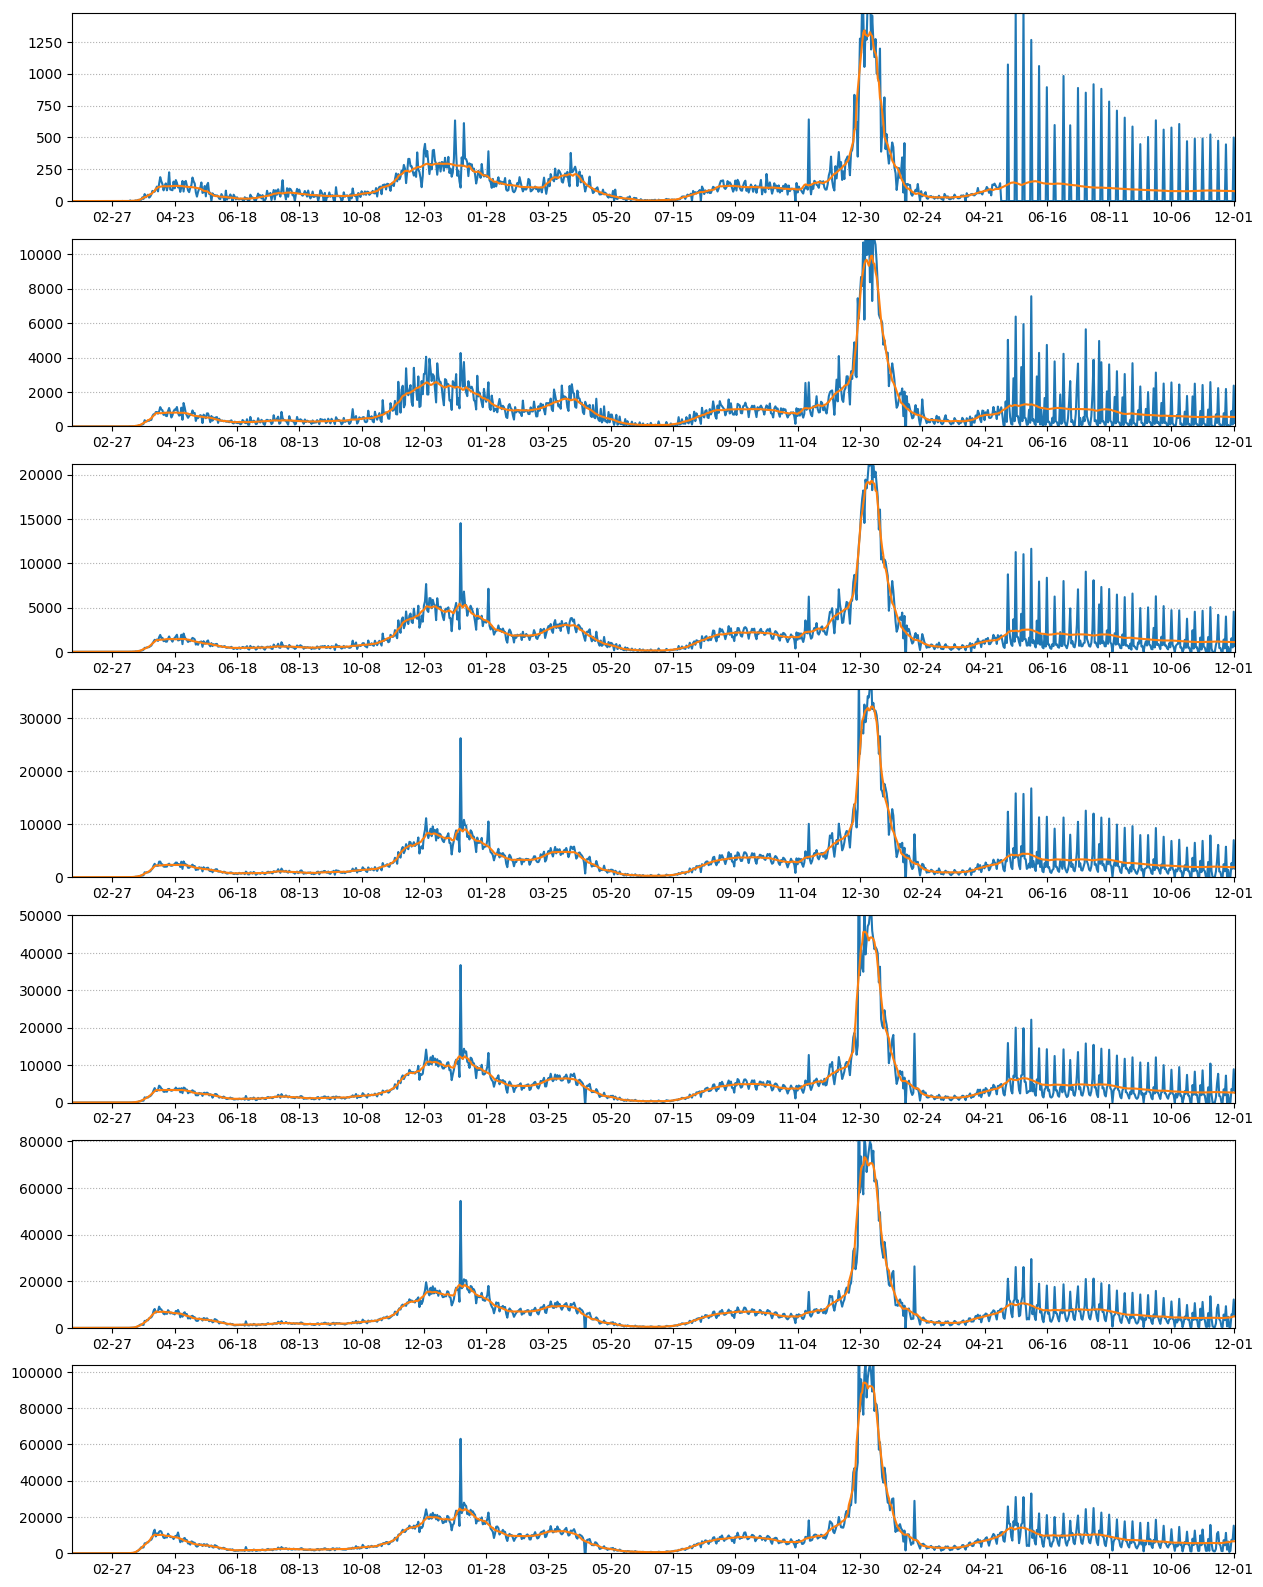
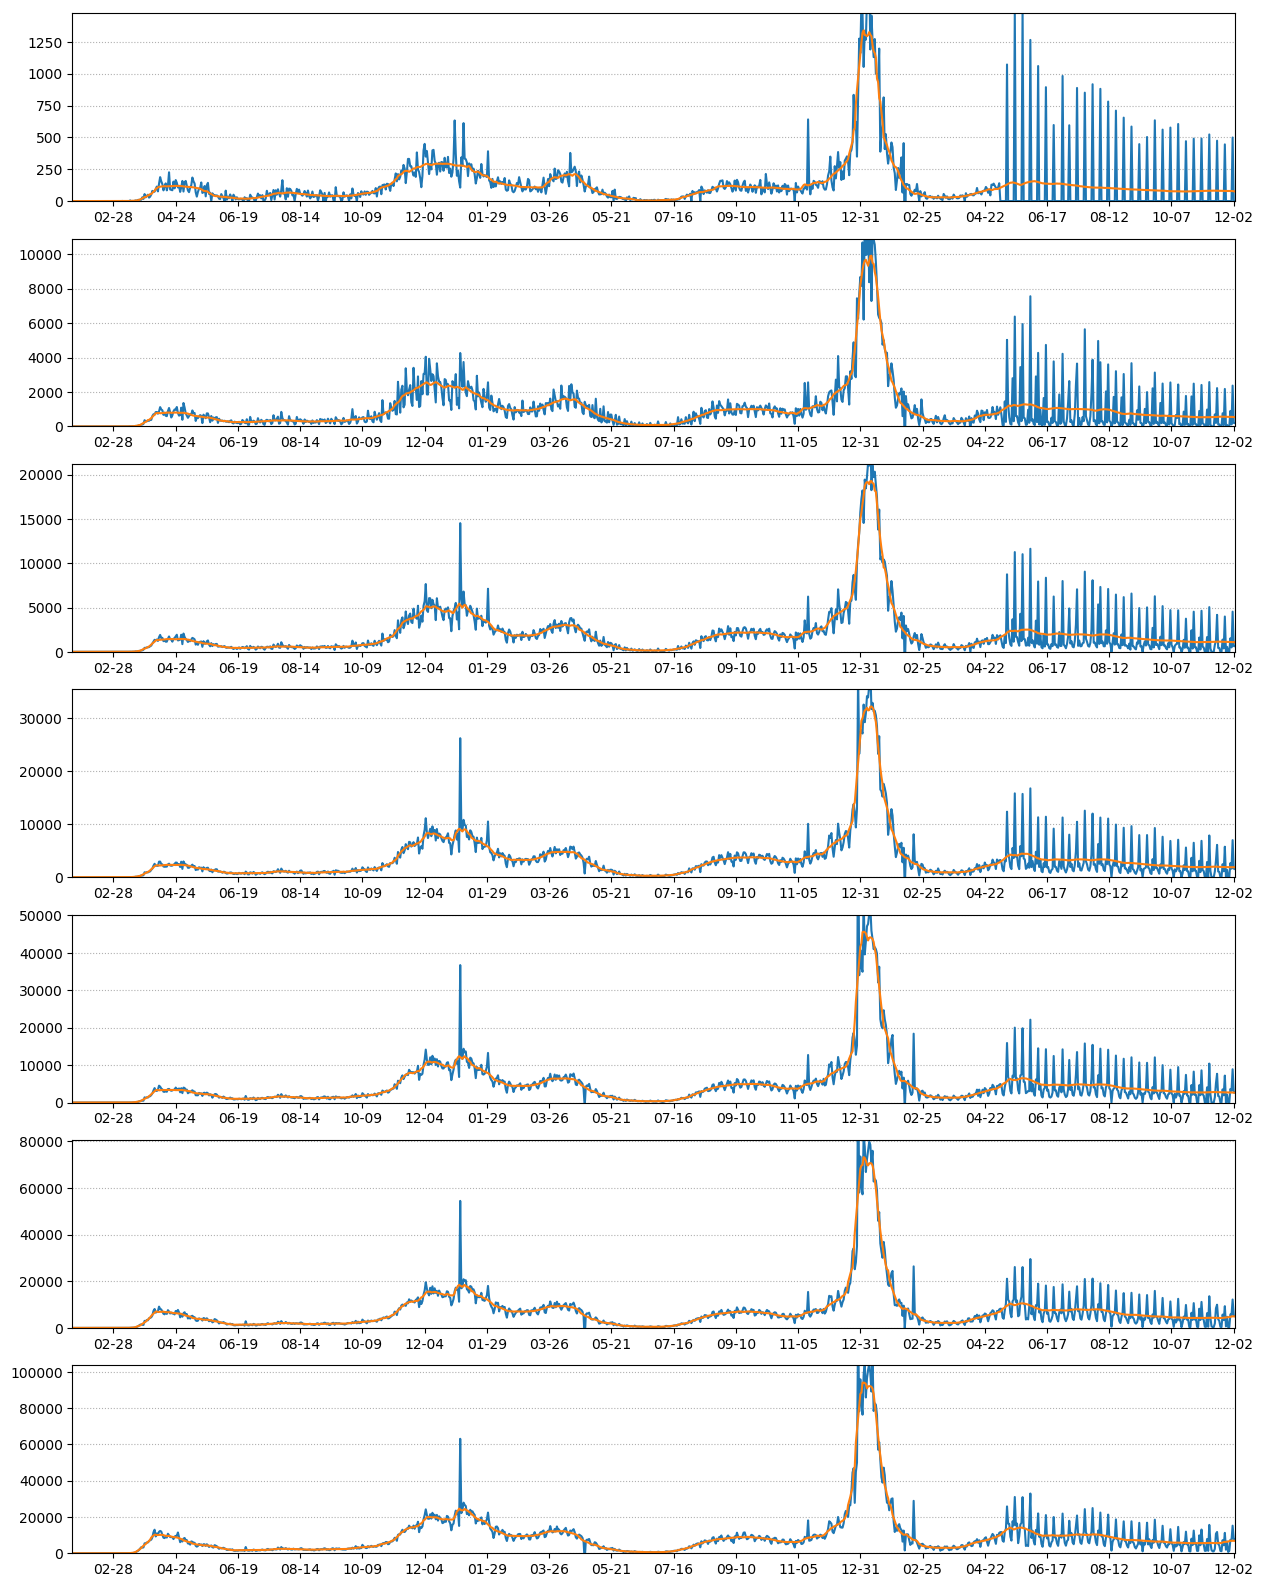
daily forecast

diff --git a/dailymessage.html b/dailymessage.html
@@ -1,46 +1,46 @@
 Delaware County COVID-19 Monitor<br>
-as of 2022-12-01<br>
+as of 2022-12-02<br>
 <table border="1" cellspacing="5" cellpadding="3">
 <tr>
 <td>0</td>
-<td>77</td>
+<td>75</td>
 <td>566747</td>
-<td>13.5</td>
+<td>13.2</td>
 </tr>
 <tr>
 <td>1</td>
-<td>544</td>
+<td>535</td>
 <td>4357104</td>
-<td>12.4</td>
+<td>12.2</td>
 </tr>
 <tr>
 <td>2</td>
-<td>1095</td>
+<td>1087</td>
 <td>8052045</td>
-<td>13.5</td>
+<td>13.4</td>
 </tr>
 <tr>
 <td>3</td>
-<td>1878</td>
+<td>1871</td>
 <td>13327166</td>
 <td>14.0</td>
 </tr>
 <tr>
 <td>4</td>
-<td>2663</td>
+<td>2661</td>
 <td>18498878</td>
 <td>14.3</td>
 </tr>
 <tr>
 <td>5</td>
-<td>4927</td>
+<td>4950</td>
 <td>27240755</td>
-<td>18.0</td>
+<td>18.1</td>
 </tr>
 <tr>
 <td>6</td>
-<td>6605</td>
+<td>6853</td>
 <td>34871340</td>
-<td>18.9</td>
+<td>19.6</td>
 </tr>
 </table>
